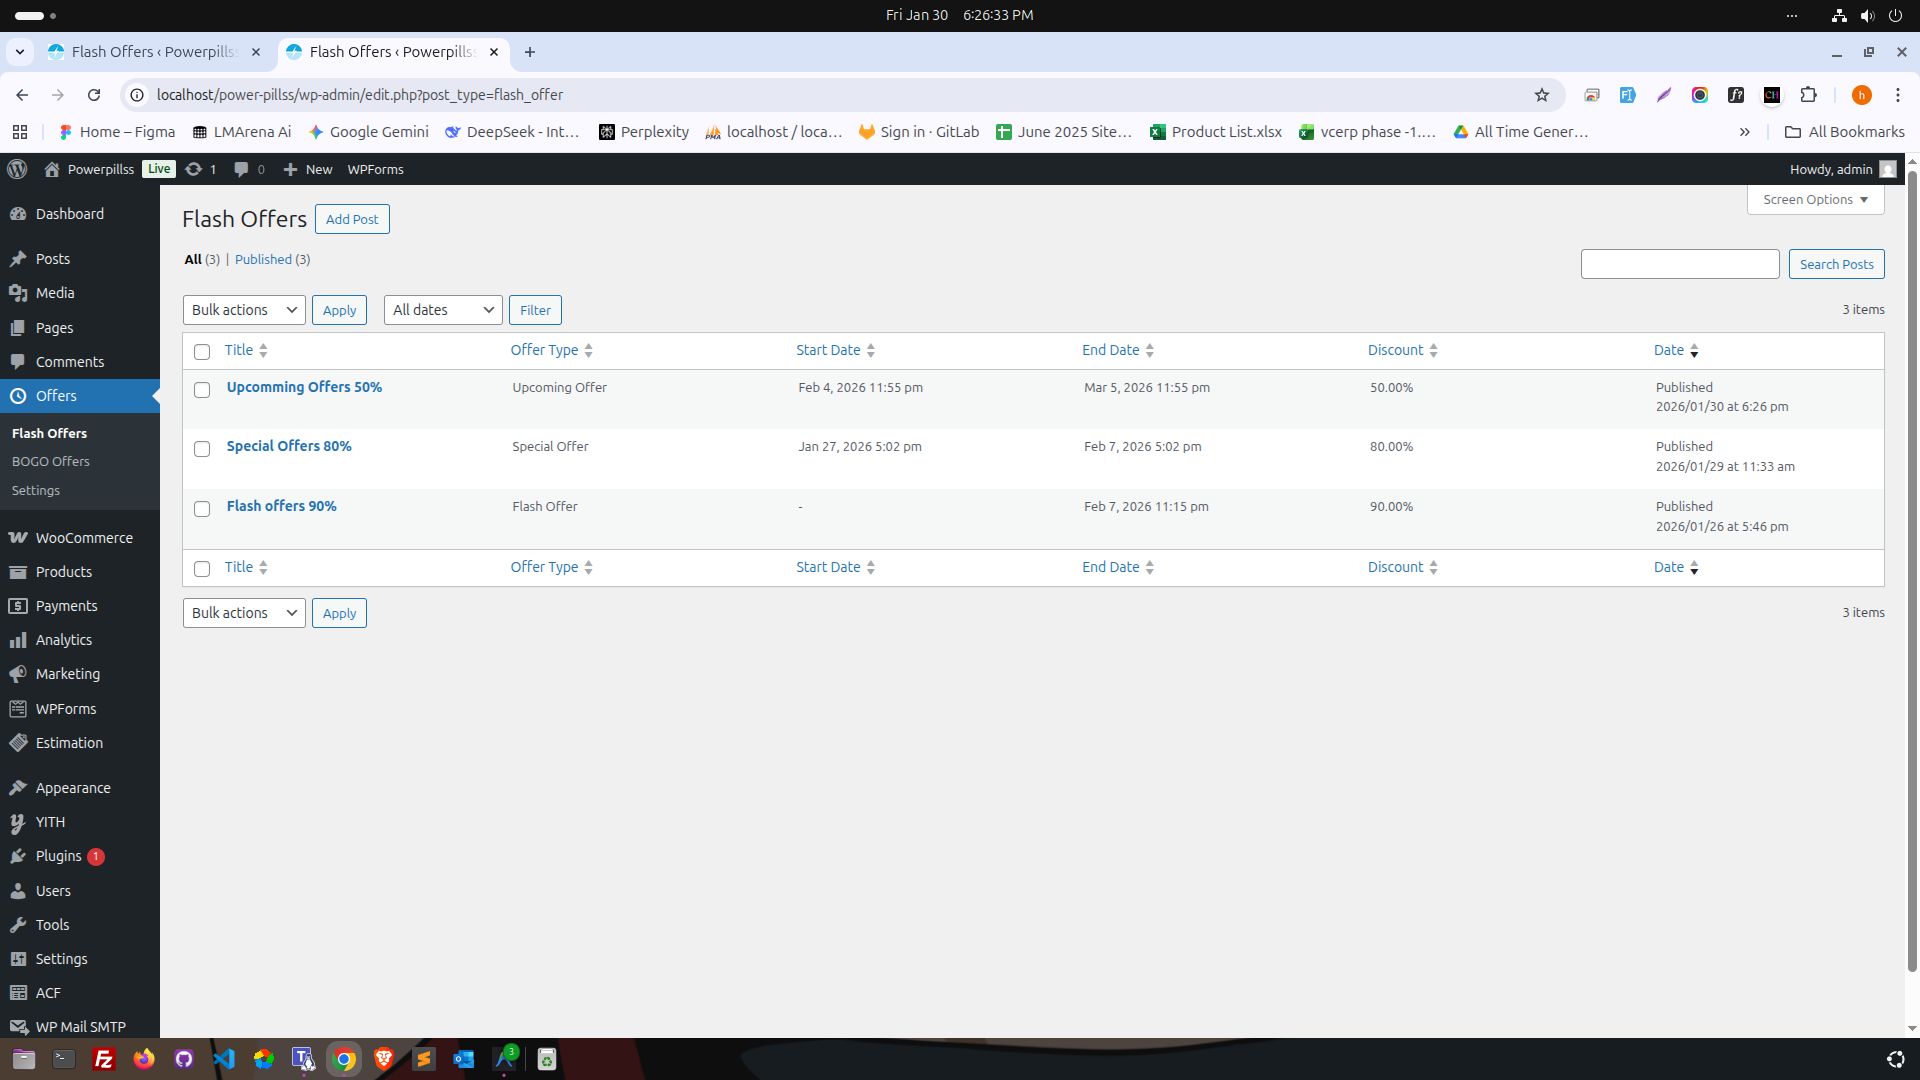
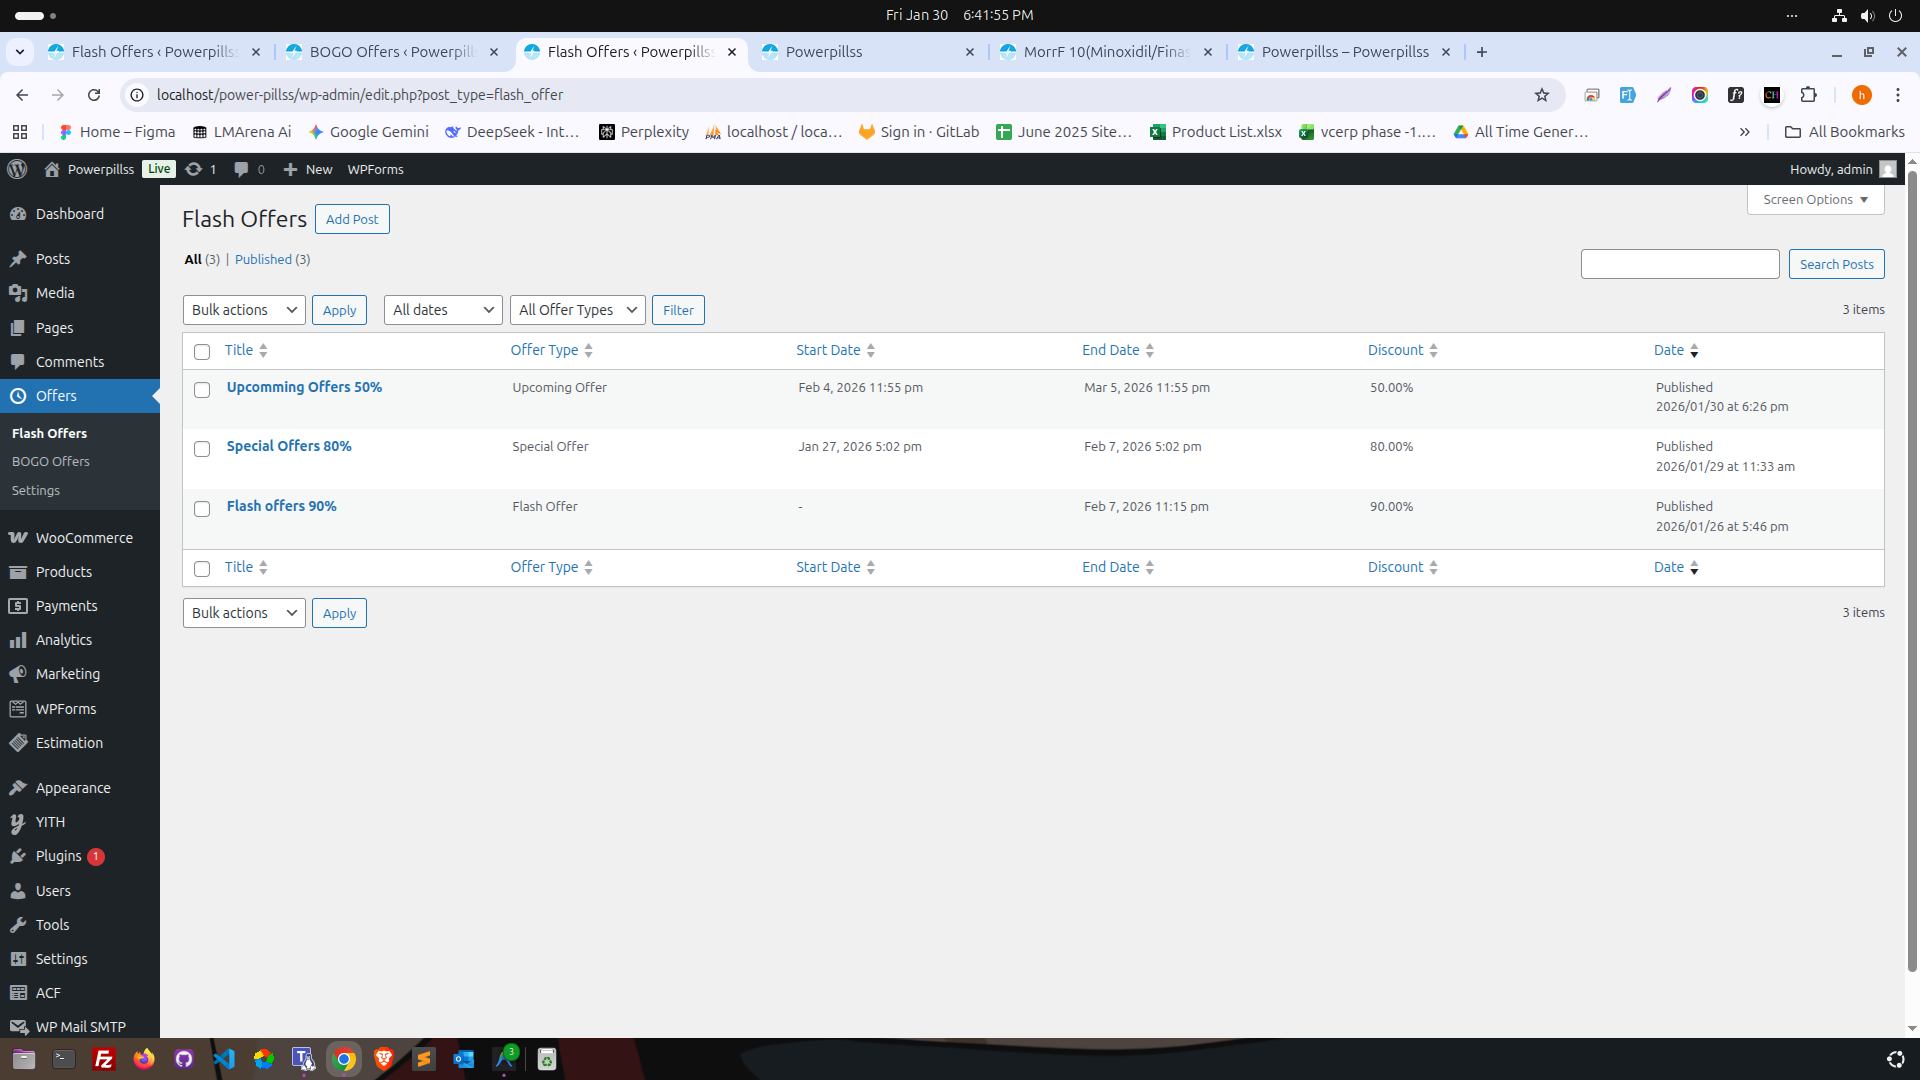
feat: Introduce admin offer type filters for Flash and BOGO offers and prevent default search conflicts.

diff --git a/includes/wao-admin.php b/includes/wao-admin.php
@@ -697,6 +697,70 @@ function flashoffers_handle_admin_search($query)
 
     // 4. Modify Query
     $query->set('post__in', $merged_ids);
-    $query->set('s', ''); // Clear search term to prevent default WP search from restricting results further
-    $query->set('compare', 'IN');
+    // $query->set('s', ''); // We keep 's' for UI, but suppress its SQL effect via filter
+    add_filter('posts_search', 'flashoffers_suppress_default_search', 10, 2);
+}
+
+function flashoffers_suppress_default_search($search, $query)
+{
+    if (!is_admin() || !$query->is_main_query() || !$query->is_search()) {
+        return $search;
+    }
+
+    $post_type = $query->get('post_type');
+    if ($post_type === 'flash_offer' || $post_type === 'bogo_offer') {
+        if ($query->get('post__in')) {
+            return ''; // Return empty to disable default title/content LIKE clauses
+        }
+    }
+
+    return $search;
+}
+
+// 6. Add Filter Dropdown
+add_action('restrict_manage_posts', 'flashoffers_render_offer_type_filter');
+function flashoffers_render_offer_type_filter($post_type) {
+    if ($post_type !== 'flash_offer') return;
+
+    $options = [
+        'flash' => esc_html__('Flash Offer', 'advanced-offers-for-woocommerce'),
+        'upcoming' => esc_html__('Upcoming Offer', 'advanced-offers-for-woocommerce'),
+        'special' => esc_html__('Special Offer', 'advanced-offers-for-woocommerce'),
+    ];
+
+    $current = isset($_GET['filter_offer_type']) ? sanitize_text_field($_GET['filter_offer_type']) : '';
+
+    echo '<select name="filter_offer_type" id="filter_offer_type">';
+    echo '<option value="">' . esc_html__('All Offer Types', 'advanced-offers-for-woocommerce') . '</option>';
+    foreach ($options as $key => $label) {
+        printf(
+            '<option value="%s" %s>%s</option>',
+            esc_attr($key),
+            selected($current, $key, false),
+            esc_html($label)
+        );
+    }
+    echo '</select>';
+}
+
+// 7. Handle Filter Logic
+add_action('pre_get_posts', 'flashoffers_handle_admin_filter');
+function flashoffers_handle_admin_filter($query) {
+    if (!is_admin() || !$query->is_main_query() || $query->get('post_type') !== 'flash_offer') {
+        return;
+    }
+
+    if (!empty($_GET['filter_offer_type'])) {
+        global $wpdb;
+        $type = sanitize_text_field($_GET['filter_offer_type']);
+        
+        // Ensure table is joined
+        add_filter('posts_join', 'flashoffers_admin_join_table');
+        
+        // Add where clause
+        add_filter('posts_where', function($where) use ($type, $wpdb) {
+            $where .= $wpdb->prepare(" AND {$wpdb->prefix}flash_offers.offer_type = %s", $type);
+            return $where;
+        });
+    }
 }

diff --git a/includes/bogo-admin.php b/includes/bogo-admin.php
@@ -478,6 +478,53 @@ function flashoffers_handle_bogo_admin_search($query)
 
     // 4. Modify Query
     $query->set('post__in', $merged_ids);
-    $query->set('s', ''); // Clear search term
-    $query->set('compare', 'IN');
+    // $query->set('s', ''); // Keep 's' for UI
+    add_filter('posts_search', 'flashoffers_suppress_default_search', 10, 2);
+}
+
+// 6. Add Filter Dropdown
+add_action('restrict_manage_posts', 'flashoffers_render_bogo_type_filter');
+function flashoffers_render_bogo_type_filter($post_type) {
+    if ($post_type !== 'bogo_offer') return;
+
+    $options = [
+        'buy_x_get_y' => esc_html__('Buy X Get Y', 'advanced-offers-for-woocommerce'),
+        'buy_one_get_one' => esc_html__('Buy One Get One', 'advanced-offers-for-woocommerce'),
+    ];
+
+    $current = isset($_GET['filter_offer_type']) ? sanitize_text_field($_GET['filter_offer_type']) : '';
+
+    echo '<select name="filter_offer_type" id="filter_offer_type">';
+    echo '<option value="">' . esc_html__('All Offer Types', 'advanced-offers-for-woocommerce') . '</option>';
+    foreach ($options as $key => $label) {
+        printf(
+            '<option value="%s" %s>%s</option>',
+            esc_attr($key),
+            selected($current, $key, false),
+            esc_html($label)
+        );
+    }
+    echo '</select>';
+}
+
+// 7. Handle Filter Logic
+add_action('pre_get_posts', 'flashoffers_handle_bogo_admin_filter');
+function flashoffers_handle_bogo_admin_filter($query) {
+    if (!is_admin() || !$query->is_main_query() || $query->get('post_type') !== 'bogo_offer') {
+        return;
+    }
+
+    if (!empty($_GET['filter_offer_type'])) {
+        global $wpdb;
+        $type = sanitize_text_field($_GET['filter_offer_type']);
+        
+        // Ensure table is joined
+        add_filter('posts_join', 'flashoffers_bogo_admin_join_table');
+        
+        // Add where clause
+        add_filter('posts_where', function($where) use ($type, $wpdb) {
+            $where .= $wpdb->prepare(" AND {$wpdb->prefix}bogo_offers.offer_type = %s", $type);
+            return $where;
+        });
+    }
 }
